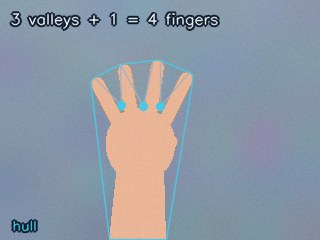
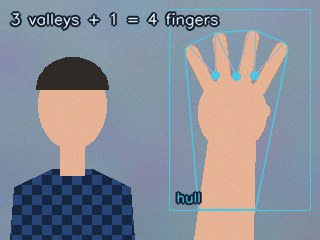
Level 6: look for the hand only inside a box
On a laptop the student is in the frame too, and nobody sits still, so a
background difference over the whole frame lit up their head and
shoulders. The level now slices a box out of the frame (BOX, a numpy
view) and differences only that; the box is drawn on the camera window.

The hand clips gain a person in a patterned shirt beside the box who
keeps moving after b, so the old whole-frame code fails Check (67-81%)
and the box passes every frame. A new coach message catches a mask the
size of the whole frame. Fill-only masks may now be any size. Clips go
to v2 so cached copies are replaced. Figures redrawn, including the
whole-frame mask that shows the problem.

diff --git a/src/levels/index.ts b/src/levels/index.ts
@@ -465,6 +465,10 @@ import numpy as np
 
 cap = cv2.VideoCapture(0)
 CYAN = (226, 198, 77)
+# Only look for your hand inside this box: x0, y0, x1, y1 in pixels. You're
+# in the picture too, and when you move, that's a change as well. Sit so your
+# head is outside the box.
+BOX = (170, 10, 310, 210)
 background = None
 fingers = None
 hand = None
@@ -485,7 +489,11 @@ while True:
     ok, frame = cap.read()
     if not ok:
         break
-    blur = cv2.GaussianBlur(frame, (5, 5), 0)
+    # Cut the box out of the frame (rows first, like level 2). It's a view,
+    # not a copy: drawing on box draws on frame.
+    x0, y0, x1, y1 = BOX
+    box = frame[y0:y1, x0:x1]
+    blur = cv2.GaussianBlur(box, (5, 5), 0)
     fingers = None
 
     if background is not None:
@@ -510,7 +518,7 @@ while True:
                         # STEP 4: count only deep, sharp dents: the valleys between fingers.
                         # if depth / 256 > 20 and angle_at(far, start, end) < 90:
                         #     valleys += 1
-                        #     cv2.circle(frame, (int(far[0]), int(far[1])), 4, CYAN, -1)
+                        #     cv2.circle(box, (int(far[0]), int(far[1])), 4, CYAN, -1)
                 if valleys > 0:
                     fingers = valleys   # STEP 5: two fingers have one valley between them
                 else:
@@ -520,17 +528,18 @@ while True:
                     _, radius, _, palm = cv2.minMaxLoc(dist)
                     top = c[c[:, :, 1].argmin()][0]
                     fingers = 1 if palm[1] - top[1] > 1.5 * radius else 0
-                cv2.drawContours(frame, [cv2.convexHull(c)], -1, CYAN, 1)
+                cv2.drawContours(box, [cv2.convexHull(c)], -1, CYAN, 1)
         cv2.putText(frame, str(fingers), (12, 40), cv2.FONT_HERSHEY_SIMPLEX, 1.2, CYAN, 2)
 
+    cv2.rectangle(frame, (x0 - 1, y0 - 1), (x1, y1), CYAN, 1)
     cv2.imshow("camera", frame)
     if hand is not None:
         cv2.imshow("hand", hand)
-    # STEP 1: point the camera at a plain wall, move your hand out of view
-    #         and press b. Then hold up your hand.
+    # STEP 1: sit so your head is left of the box, keep your hand out of it
+    #         and press b. Then hold up your hand inside the box.
     key = cv2.waitKey(1) & 0xFF
     if key == ord("b"):
-        background = blur.copy()   # b saves the empty background
+        background = blur.copy()   # b saves the empty box
     if key == ord("q") or key == 27:
         break
 
@@ -543,7 +552,11 @@ while True:
     ok, frame = cap.read()
     if not ok:
         break
-    blur = cv2.GaussianBlur(frame, (5, 5), 0)
+    # Cut the box out of the frame (rows first, like level 2). It's a view,
+    # not a copy: drawing on box draws on frame.
+    x0, y0, x1, y1 = BOX
+    box = frame[y0:y1, x0:x1]
+    blur = cv2.GaussianBlur(box, (5, 5), 0)
     fingers = None
 
     if background is not None:
@@ -567,7 +580,7 @@ while True:
                         start, end, far = c[s][0], c[e][0], c[f][0]
                         if depth / 256 > 20 and angle_at(far, start, end) < 90:
                             valleys += 1
-                            cv2.circle(frame, (int(far[0]), int(far[1])), 4, CYAN, -1)
+                            cv2.circle(box, (int(far[0]), int(far[1])), 4, CYAN, -1)
                 if valleys > 0:
                     fingers = valleys + 1
                 else:
@@ -577,15 +590,16 @@ while True:
                     _, radius, _, palm = cv2.minMaxLoc(dist)
                     top = c[c[:, :, 1].argmin()][0]
                     fingers = 1 if palm[1] - top[1] > 1.5 * radius else 0
-                cv2.drawContours(frame, [cv2.convexHull(c)], -1, CYAN, 1)
+                cv2.drawContours(box, [cv2.convexHull(c)], -1, CYAN, 1)
         cv2.putText(frame, str(fingers), (12, 40), cv2.FONT_HERSHEY_SIMPLEX, 1.2, CYAN, 2)
 
+    cv2.rectangle(frame, (x0 - 1, y0 - 1), (x1, y1), CYAN, 1)
     cv2.imshow("camera", frame)
     if hand is not None:
         cv2.imshow("hand", hand)
     key = cv2.waitKey(1) & 0xFF
     if key == ord("b"):
-        background = blur.copy()   # b saves the empty background
+        background = blur.copy()   # b saves the empty box
     if key == ord("q") or key == 27:
         break
 
@@ -1012,10 +1026,14 @@ function measureFingers(run: ClipRun, labels: ClipLabels): ClipResult {
 			.filter((x) => !Number.isNaN(x)),
 	);
 	const skin = run.clip.replace("hand-", "");
+	const wholeFrame = frames(run, labels).some((f) => mask(f.rec.hand)?.whole);
 	let coach: string;
 	if (unset > graded.length / 2) {
 		coach =
 			"`fingers` stays None. It's only set once there's a background: Check presses `b` on frame 4, so save the background when `waitKey` returns `ord(\"b\")`.";
+	} else if (wholeFrame) {
+		coach =
+			"`hand` covers the whole frame, so the person moving in their seat counts as a change too. Look only inside the box: `box = frame[y0:y1, x0:x1]`, then blur `box`, not `frame`.";
 	} else if (handFill < 0.02) {
 		coach = `The hand mask is nearly empty on the ${skin} skin clip: that hand is as bright as the wall, so a greyscale difference can't see it. Take the difference in colour, then \`.max(axis=2)\`.`;
 	} else {
@@ -1580,12 +1598,24 @@ export const LEVELS: Level[] = [
 		number: 6,
 		title: "Count fingers",
 		minutes: 9,
-		idea: "No colour this time. Press `b` with the camera on an empty background, and anything that's changed since is your hand, whatever your skin tone. Around the hand's outline, the **convex hull** is a rubber band stretched over it; the **convexity defects** are the deepest points between hull and outline, which are the valleys between raised fingers.",
-		goal: "Set `fingers` to how many fingers are up, 0 to 5. Keep the camera still and the wall behind your hand plain. Check presses `b` on its own.",
+		idea: "No colour this time. Press `b` while the box on screen is empty, and anything that's changed in the box since is your hand, whatever your skin tone. Only the box counts, because you're in the picture too: when you shift in your seat, that changes pixels as well. Around the hand's outline, the **convex hull** is a rubber band stretched over it; the **convexity defects** are the deepest points between hull and outline, which are the valleys between raised fingers.",
+		goal: "Set `fingers` to how many fingers are up, 0 to 5, from your hand in the box. Keep the laptop still and your head out of the box. Check presses `b` on its own.",
 		steps: [
 			{
-				title: "Save the background",
-				body: "Run it, point the camera at a plain wall, move out of view and press **b** (click a window first so it gets the key). Then hold up your hand.",
+				title: "Save the empty box",
+				body: "Run it. The cyan box on the `camera` window is where your hand goes: sit so your head is outside it, keep your hand out of it, and press **b** (click a window first so it gets the key). Then hold your hand up inside the box.",
+				images: [
+					{
+						src: "/figures/fingers-whole.png",
+						alt: "The difference over the whole frame: the hand in white, and the outline of the person's head and shoulders in white too, because they moved.",
+						caption: "the whole frame: you moved too",
+					},
+					{
+						src: "/figures/fingers-box.jpg",
+						alt: "The camera with a cyan box on the right; the person sits to the left of it and holds a hand up inside it.",
+						caption: "so only look in the box",
+					},
+				],
 			},
 			{
 				title: "Find the hand",
@@ -1593,17 +1623,17 @@ export const LEVELS: Level[] = [
 				images: [
 					{
 						src: "/figures/fingers-background.jpg",
-						alt: "An empty plain wall: the background saved with b.",
+						alt: "The empty box: a patch of plain wall, saved with b.",
 						caption: "saved with b",
 					},
 					{
 						src: "/figures/fingers-camera.jpg",
-						alt: "The same wall with a hand held up, four fingers raised.",
+						alt: "The same box with a hand held up, four fingers raised.",
 						caption: "now",
 					},
 					{
 						src: "/figures/fingers-hand.png",
-						alt: "The difference mask: the hand and arm in white, everything else black.",
+						alt: "The difference mask of the box: the hand and arm in white, everything else black.",
 						caption: "what changed: the hand",
 					},
 				],
@@ -1634,8 +1664,9 @@ export const LEVELS: Level[] = [
 		],
 		presenter: [
 			"Why not threshold skin colour? It depends on the skin tone and the light. Background difference works the same for everyone, as long as the camera doesn't move.",
+			"Why the box: a laptop camera sees the student too, and nobody sits still, so a difference over the whole frame lights up their head and shoulders. The box is a numpy slice, `frame[y0:y1, x0:x1]`, rows first, the same indexing as level 2. To use the other side of the frame, change `BOX`, for example to `(10, 10, 150, 210)`.",
 			"Show the hull as a rubber band around the hand, and a defect as the deepest point of each gap under the band.",
-			"If someone's count jumps around: a busy background, a moving camera, or their sleeve. Press b again.",
+			"If someone's count jumps around: their head or shoulder is in the box, a busy background behind the box, a moving laptop, or their sleeve. Press b again with the box empty.",
 		],
 		hints: [
 			"```\ndiff = cv2.absdiff(blur, background).max(axis=2)\n_, hand = cv2.threshold(diff, 30, 255, cv2.THRESH_BINARY)\n```\nThen open and close it, and take the biggest contour, as in level 4.",
@@ -1654,6 +1685,11 @@ export const LEVELS: Level[] = [
 					"diff = cv2.absdiff(cv2.cvtColor(blur, cv2.COLOR_BGR2GRAY), cv2.cvtColor(background, cv2.COLOR_BGR2GRAY))",
 				),
 				expect: /colour/,
+			},
+			{
+				name: "the whole frame, no box",
+				code: L4_SOLUTION.replace("box = frame[y0:y1, x0:x1]", "box = frame"),
+				expect: /person moving/,
 			},
 			{
 				name: "valleys, not fingers",

diff --git a/scripts/make-figures.ts b/scripts/make-figures.ts
@@ -313,39 +313,60 @@ def angle_at(far, start, end):
     c = np.linalg.norm(end - far)
     return math.degrees(math.acos(np.clip((b * b + c * c - a * a) / (2 * b * c + 1e-9), -1, 1)))
 
+BOX = (170, 10, 310, 210)   # the level's BOX: x0, y0, x1, y1
+
+def clean(diff):
+    _, m = cv2.threshold(diff, 30, 255, cv2.THRESH_BINARY)
+    m = cv2.morphologyEx(m, cv2.MORPH_OPEN, np.ones((5, 5), np.uint8))
+    return cv2.morphologyEx(m, cv2.MORPH_CLOSE, np.ones((5, 5), np.uint8))
+
 def fingers():
     clip = "hand-light"
     lab = labels(clip)["frames"]
-    i = next(k for k, l in enumerate(lab) if l.get("fingers") == 4) + 6
+    # Four fingers up, on the frame where the person has moved furthest from
+    # where they sat when b was pressed (frame 4). Same sway as make-clips.
+    def moved(t):
+        return abs(16 * (math.sin(t / 9) - math.sin(4 / 9))) + abs(7 * (math.sin(t / 6) - math.sin(4 / 6)))
+    i = max((k for k, l in enumerate(lab) if l.get("fingers") == 4), key=moved)
     bg = frame(clip, 4)
     img = frame(clip, i)
+    x0, y0, x1, y1 = BOX
     blur_bg = cv2.GaussianBlur(bg, (5, 5), 0)
     blur = cv2.GaussianBlur(img, (5, 5), 0)
-    diff = cv2.absdiff(blur, blur_bg).max(axis=2)
-    _, hand = cv2.threshold(diff, 30, 255, cv2.THRESH_BINARY)
-    hand = cv2.morphologyEx(hand, cv2.MORPH_OPEN, np.ones((5, 5), np.uint8))
-    hand = cv2.morphologyEx(hand, cv2.MORPH_CLOSE, np.ones((5, 5), np.uint8))
-    save("fingers-background.jpg", bg)
-    save("fingers-camera.jpg", img)
+
+    # Over the whole frame, the person who moved shows up too.
+    save("fingers-whole.png", clean(cv2.absdiff(blur, blur_bg).max(axis=2)))
+    boxed = img.copy()
+    cv2.rectangle(boxed, (x0 - 1, y0 - 1), (x1, y1), CYAN, 1)
+    save("fingers-box.jpg", boxed)
+
+    # The level's way: only the box.
+    box_bg = cv2.GaussianBlur(bg[y0:y1, x0:x1], (5, 5), 0)
+    box_now = cv2.GaussianBlur(img[y0:y1, x0:x1], (5, 5), 0)
+    hand = clean(cv2.absdiff(box_now, box_bg).max(axis=2))
+    save("fingers-background.jpg", bg[y0:y1, x0:x1].copy())
+    save("fingers-camera.jpg", img[y0:y1, x0:x1].copy())
     save("fingers-hand.png", hand)
 
     contours, _ = cv2.findContours(hand, cv2.RETR_EXTERNAL, cv2.CHAIN_APPROX_SIMPLE)
     c = max(contours, key=cv2.contourArea)
     out = img.copy()
+    box = out[y0:y1, x0:x1]
     # Drawn the way the level 6 answer draws them: a thin cyan hull and a
-    # cyan dot in each valley. The lines to the fingertips are extra.
-    cv2.drawContours(out, [cv2.convexHull(c)], -1, CYAN, 1, cv2.LINE_AA)
+    # cyan dot in each valley, inside the box. The lines to the fingertips are extra.
+    cv2.drawContours(box, [cv2.convexHull(c)], -1, CYAN, 1, cv2.LINE_AA)
     defects = cv2.convexityDefects(c, cv2.convexHull(c, returnPoints=False))
     valleys = 0
     for s, e, f, depth in defects[:, 0]:
         start, end, far = c[s][0], c[e][0], c[f][0]
         if depth / 256 > 20 and angle_at(far, start, end) < 90:
             valleys += 1
-            cv2.line(out, tuple(int(v) for v in start), tuple(int(v) for v in far), MUTED, 1, cv2.LINE_AA)
-            cv2.line(out, tuple(int(v) for v in end), tuple(int(v) for v in far), MUTED, 1, cv2.LINE_AA)
-            cv2.circle(out, tuple(int(v) for v in far), 4, CYAN, -1, cv2.LINE_AA)
+            cv2.line(box, tuple(int(v) for v in start), tuple(int(v) for v in far), MUTED, 1, cv2.LINE_AA)
+            cv2.line(box, tuple(int(v) for v in end), tuple(int(v) for v in far), MUTED, 1, cv2.LINE_AA)
+            cv2.circle(box, tuple(int(v) for v in far), 4, CYAN, -1, cv2.LINE_AA)
+    cv2.rectangle(out, (x0 - 1, y0 - 1), (x1, y1), CYAN, 1)
     label(out, f"{valleys} valleys + 1 = {valleys + 1} fingers", (10, 24), INK, 0.5)
-    label(out, "hull", (12, 230), CYAN, 0.45)
+    label(out, "hull", (x0 + 6, y1 - 8), CYAN, 0.45)
     save("fingers-defects.jpg", out)
 
 # ------------------------------------------------- level 7: armor

diff --git a/scripts/make-clips.ts b/scripts/make-clips.ts
@@ -387,19 +387,48 @@ def draw_hand(img, cx, cy, count, tone, tilt):
         cv2.line(img, P(22, 6), P(30, -6), col, 14, cv2.LINE_AA)    # thumb tucked in
     cv2.ellipse(img, P(0, -4), (34, 33), tilt, 0, 360, col, -1, cv2.LINE_AA)
 
-def clip_hand(name, seed, tone, counts, wall_tone):
+# Level 6 looks for the hand only inside this box (x0, y0, x1, y1), so the
+# student moving in their seat doesn't count. Same numbers as BOX in the level.
+HAND_BOX = (170, 10, 310, 210)
+
+def draw_person(img, cx, cy, tone, shirt):
+    """The student, left of the box: shoulders, neck and head."""
+    col = SKIN[tone]
+    torso = np.array([(cx - 62, H), (cx - 58, cy + 82), (cx - 20, cy + 64),
+                      (cx + 20, cy + 64), (cx + 58, cy + 82), (cx + 62, H)], np.int32)
+    # A checked shirt: real clothes have folds and patterns, so when you move,
+    # all of you changes, not just your outline.
+    shirt_img = np.zeros_like(img)
+    cv2.fillPoly(shirt_img, [torso], (1, 1, 1))
+    yy, xx = np.mgrid[0:H, 0:W]
+    check = (((xx - int(cx)) // 10 + (yy - int(cy)) // 10) % 2)[:, :, None]
+    pattern = np.where(check, np.array(shirt, np.float32), np.array(shirt, np.float32) * 0.55)
+    img[:] = np.where(shirt_img > 0, pattern, img)
+    cv2.rectangle(img, (int(cx - 12), int(cy + 30)), (int(cx + 12), int(cy + 70)), col, -1)
+    cv2.ellipse(img, (int(cx), int(cy)), (34, 44), 0, 0, 360, col, -1, cv2.LINE_AA)
+    cv2.ellipse(img, (int(cx), int(cy - 16)), (36, 32), 0, 180, 360, (40, 42, 48), -1, cv2.LINE_AA)
+
+def clip_hand(name, seed, tone, counts, wall_tone, shirt):
     c = Clip(name, seed, 0)
     bg = plain_wall(c.rng, wall_tone)
     c.extra["keys"] = {"4": "b"}
     hold = 16
-    for i in range(10):          # the empty background, for pressing b
-        c.add(bg.copy(), {"v": False, "x": 0, "y": 0, "r": 0, "fingers": None})
+    def person(img, t):
+        # Nobody sits still: the student sways the whole time, even while
+        # b saves the background.
+        draw_person(img, 80 + 16 * math.sin(t / 9), 100 + 7 * math.sin(t / 6), tone, shirt)
+    for i in range(10):          # the hand out of the box, for pressing b
+        img = bg.copy()
+        person(img, i)
+        c.add(img, {"v": False, "x": 0, "y": 0, "r": 0, "fingers": None})
     for j, n in enumerate(counts):
         for k in range(hold):
+            t = 10 + j * hold + k
             img = bg.copy()
-            cx = 160 + 30 * math.sin((j * hold + k) / 13)
-            cy = 150 + 6 * math.sin((j * hold + k) / 7)
-            tilt = 8 * math.sin((j * hold + k) / 11)
+            person(img, t)
+            cx = 233 + 4 * math.sin((j * hold + k) / 13)
+            cy = 118 + 4 * math.sin((j * hold + k) / 7)
+            tilt = 5 * math.sin((j * hold + k) / 11)
             draw_hand(img, cx, cy, n, tone, tilt)
             # The first two frames after a change are motion blur in a real
             # recording; they aren't graded.
@@ -439,9 +468,9 @@ CLIPS = {
     "note-fingers": clip_note_fingers,
     "occlusion": clip_occlusion,
     "throw": clip_throw,
-    "hand-light": lambda: clip_hand("hand-light", 501, "light", [0, 1, 2, 3, 4, 5], (168, 150, 132)),
-    "hand-medium": lambda: clip_hand("hand-medium", 502, "medium", [5, 3, 1, 4, 0, 2], (176, 150, 134)),
-    "hand-dark": lambda: clip_hand("hand-dark", 503, "dark", [2, 4, 0, 5, 1, 3], (150, 170, 190)),
+    "hand-light": lambda: clip_hand("hand-light", 501, "light", [0, 1, 2, 3, 4, 5], (168, 150, 132), (120, 70, 40)),
+    "hand-medium": lambda: clip_hand("hand-medium", 502, "medium", [5, 3, 1, 4, 0, 2], (176, 150, 134), (60, 60, 150)),
+    "hand-dark": lambda: clip_hand("hand-dark", 503, "dark", [2, 4, 0, 5, 1, 3], (150, 170, 190), (70, 110, 60)),
     "armor": clip_armor,
 }
 CLIP_NAMES = list(CLIPS)

diff --git a/src/runtimes/cv/shim.ts b/src/runtimes/cv/shim.ts
@@ -387,10 +387,14 @@ def _mask(v, i, full):
         return "bad:" + type(v).__name__
     m = v[:, :, 0] if v.ndim == 3 and v.shape[2] == 1 else v
     h, w = S.clip["height"], S.clip["width"]
-    if m.ndim != 2 or m.shape != (h, w):
+    # A fill-only mask can be any size (level 6 looks inside a box); one
+    # compared with the answer has to be the whole frame.
+    if m.ndim != 2 or (full and m.shape != (h, w)):
         return "bad:shape " + "x".join(map(str, v.shape))
     on = m > 0
     out = {"fill": round(float(on.mean()), 4)}
+    if not full:
+        out["whole"] = m.shape == (h, w)
     if full:
         gt = _gt_mask(i) > 0
         inter = int(np.count_nonzero(on & gt))

diff --git a/src/runtimes/cv/types.ts b/src/runtimes/cv/types.ts
@@ -48,7 +48,13 @@ export interface SyntaxIssue {
 	message: string;
 }
 
-export type MaskRecord = { fill: number; iou?: number; cover?: number | null };
+export type MaskRecord = {
+	fill: number;
+	iou?: number;
+	cover?: number | null;
+	/** For a fill-only mask: it's the size of the whole frame. */
+	whole?: boolean;
+};
 /** How a `gray` image compares with OpenCV's own greyscale of the frame. */
 export type GrayRecord = {
 	ok: boolean;

diff --git a/src/tools.ts b/src/tools.ts
@@ -7,7 +7,7 @@ export const PYODIDE_VERSION = "314.0.7";
 /** Pyodide packages loaded at boot, from pyodide-lock.json. */
 export const PACKAGES = ["numpy", "opencv-python"] as const;
 /** Bump when the clips or their labels change. */
-export const CLIPS_VERSION = "v1";
+export const CLIPS_VERSION = "v2";
 
 export const TOOLS = {
 	pyodide: {

diff --git a/README.md b/README.md
@@ -16,7 +16,7 @@ bun dev           # http://localhost:3000
 `bun dev` (and `bun run build`) first runs `scripts/sync-tools.ts`, which fills two gitignored folders in `public/`:
 
 - `public/tools/pyodide/314.0.7/`: Pyodide from npm, plus the NumPy 2.4.6 and OpenCV 4.11.0.86 wheels downloaded once from Pyodide's CDN and checked against the sha256 in `pyodide-lock.json`.
-- `public/clips/v1/`: the Check-mode clips, rendered by `scripts/make-clips.ts`.
+- `public/clips/v2/`: the Check-mode clips, rendered by `scripts/make-clips.ts`.
 
 They're ordinary static files: the dev server serves them at `/tools` and `/clips`, and in production they're Worker static assets at the same paths. The dev server runs the app in workerd through Cloudflare's Vite plugin, like production.
 
